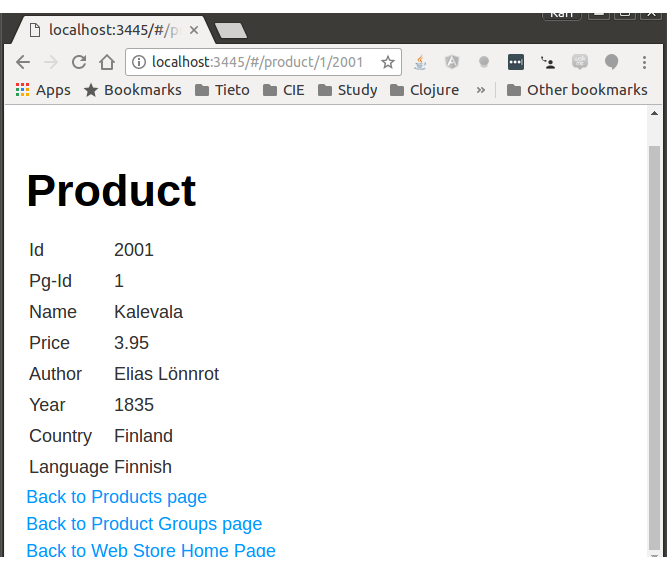
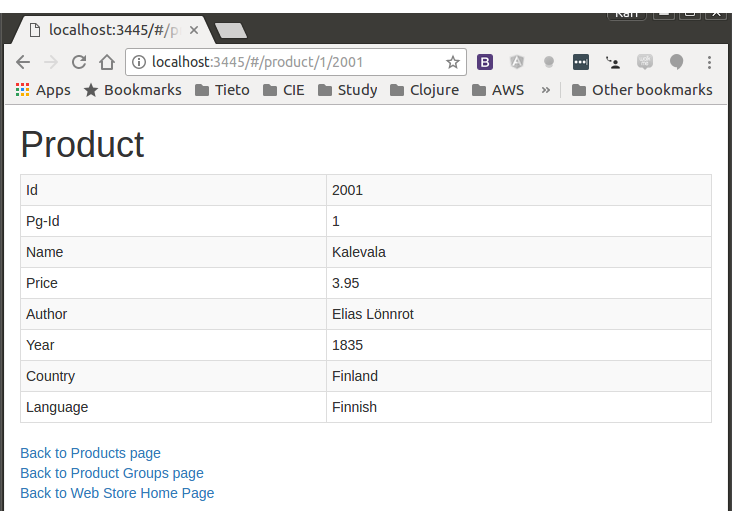
Updated Simple Frontend README and png files after implementing Bootstrap CSS

diff --git a/clj-ring-cljs-reagent-demo/simple-frontend/README.md b/clj-ring-cljs-reagent-demo/simple-frontend/README.md
@@ -29,7 +29,7 @@ Simple Frontend is a simple frontend for demonstrating how to create a Single Pa
 
 **Disclaimer**: 
 
-- **UI**. I didn't worry about CSS styles since I'm not artistic and our corporation usually provides some graphical designer who creates the styles for HTML pages - so I only focused on getting the frontend functionality right. The UI look and feel is horrific, I know, don't worry about that, relax and have a home brew.
+- **UI**. I didn't worry about CSS styles since I'm not artistic and our corporation usually provides some graphical designer who creates the styles for HTML pages - so I only focused on getting the frontend functionality right. The UI look and feel is horrific, I know, don't worry about that, relax and have a home brew. (**Update 2018-04-24**: I wanted to learn how to do at least some basic CSS styling in a ClojureScript SPA, and I studied how to use the popular [Bootstrap](https://getbootstrap.com/) library for this - I updated the pictures according the latest UI look-and-feel).
 - **Security**. I didn't worry too much about the security either since this is just a learning demonstration for myself how to do REST interaction between ClojureScript/React/ajax-cljs and Clojure/Ring applications. You shouldn't show password in plaintext, you should send credentials using https etc.
 
 
@@ -39,6 +39,7 @@ The Simple Frontend is a [ClojureScript](http://clojurescript.org) application w
 
 - [Reagent](http://reagent-project.github.io/index.html) framework which provides the ClojureScript integration for the [React](https://reactjs.org/) JavaScript library
 - [Secretary](https://github.com/gf3/secretary) which provides client side routing for the Single Page Application.
+- [Bootstrap](https://getbootstrap.com/) - I implemented the basic CSS using Bootstrap. I used [cljsjs/react-bootstrap](https://github.com/cljsjs/packages/tree/master/react-bootstrap) to wrap Bootstrap entities to be used from ClojureScript.
 
 
 ## Development Instructions
@@ -274,7 +275,6 @@ Anyway, these are some features for future implementation:
 - Do not show any other pages than Sign-in and Login if there is no valid session in the browser.
 - Logout functionality: Add a logout link once user is logged in - invalidate the token (remove it from atom and browser local storage) when the user loggs out.
 - Some shopping cart functionality for the user to choose the items for purchasing. Simulate payment somehow.
-- Some basic CSS to make the Simple Frontend look at least a little bit less horrific. :-)
 - If this were a real production system you should implement tests in both frontend and backend sides - unit tests, integration tests and e2e tests.
 
 
